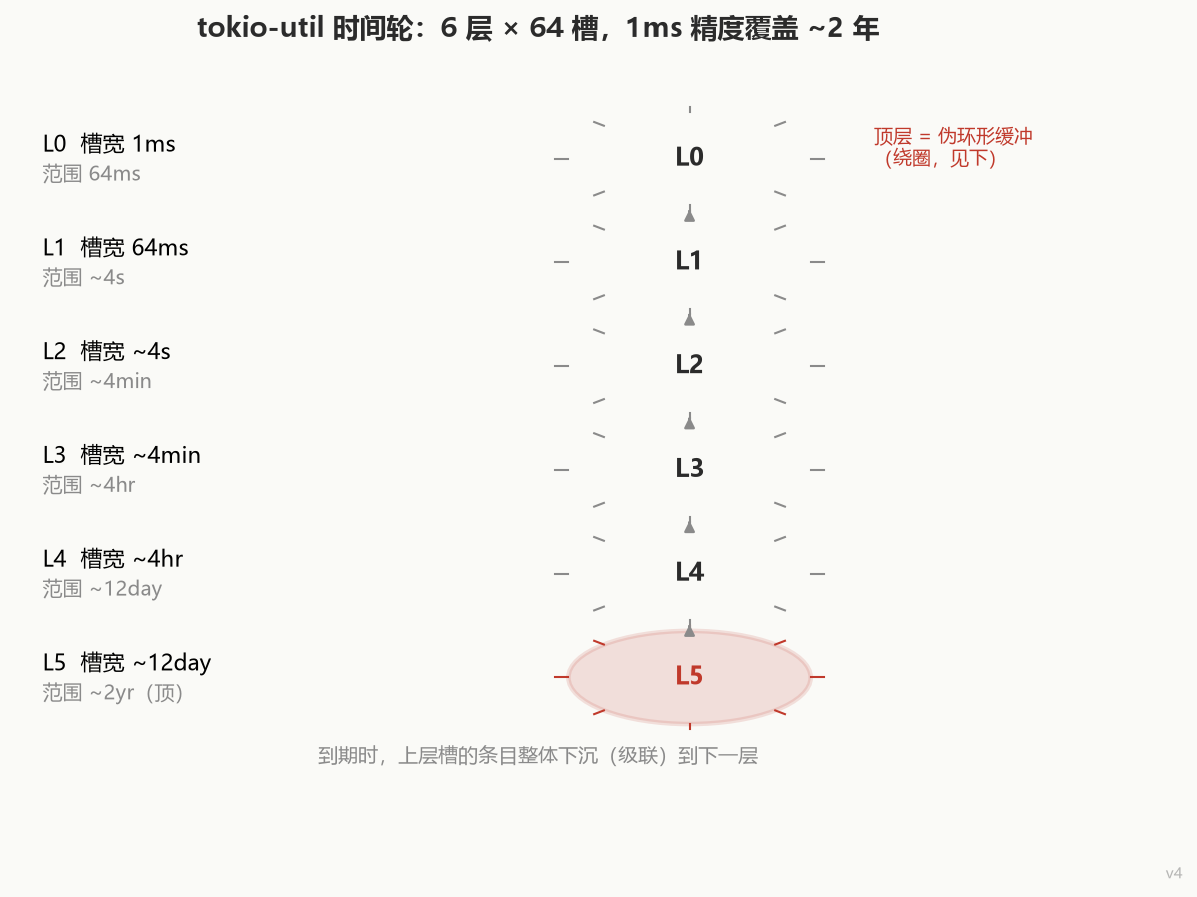
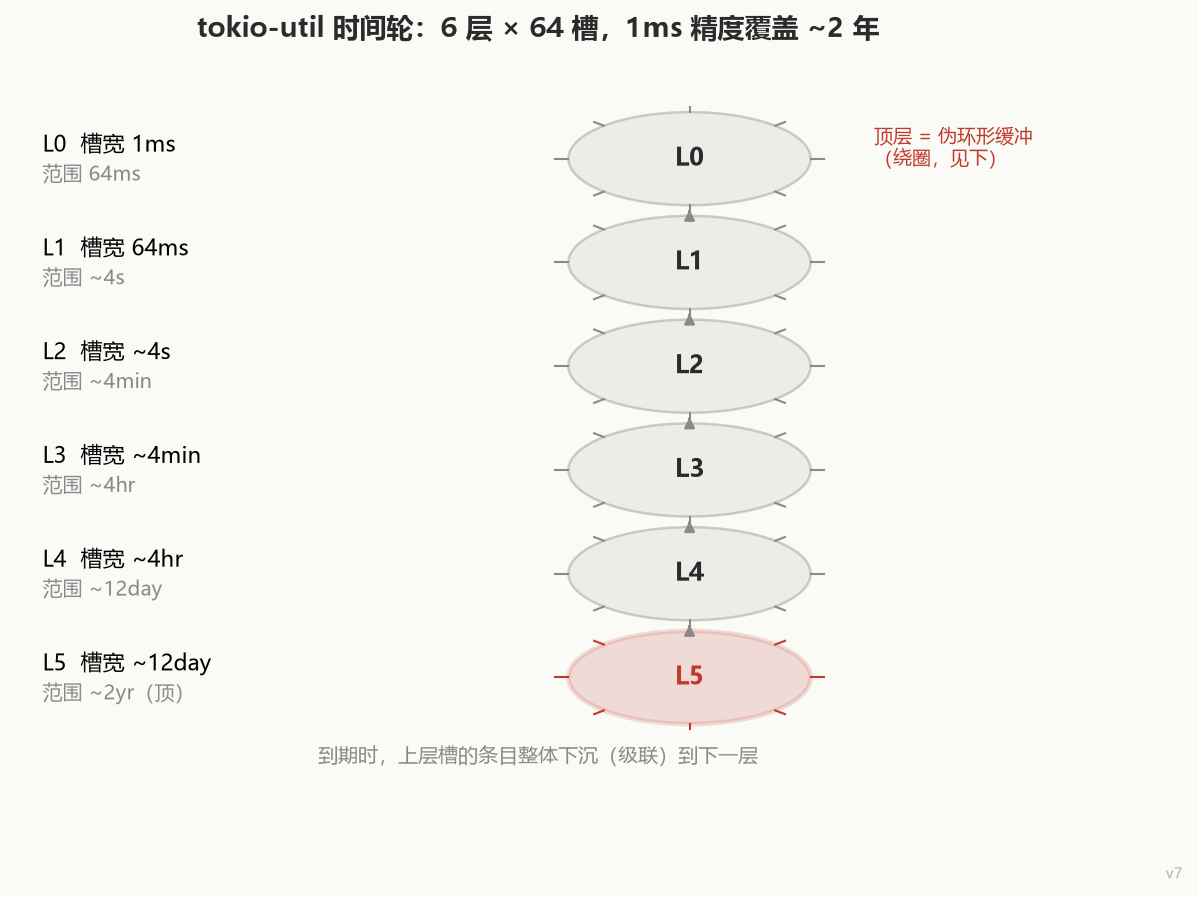
figures v7: fig1 补 L0-L4 半透明圆环; fig2/fig3 修复标签错位

diff --git a/代码/wheel_demo/make_figs.py b/代码/wheel_demo/make_figs.py
@@ -9,7 +9,7 @@ import numpy as np, os
 plt.rcParams["font.sans-serif"] = ["Microsoft YaHei", "SimHei"]
 plt.rcParams["axes.unicode_minus"] = False
 
-VER = "v4"  # 右下角版本标记，验证管线用
+VER = "v7"  # 右下角版本标记，验证管线用
 OUT = r"E:\项目\Tset\笔记\assets"
 os.makedirs(OUT, exist_ok=True)
 
@@ -46,9 +46,9 @@ y0, gap, r = 2.35, 0.98, 0.44
 for i, (name, sw, rng) in enumerate(levels):
     y = y0 - i * gap
     top = (name == "L5")
-    ax.add_patch(plt.Circle((0.75, y), r, fc=ACCENT if top else "none",
-                            alpha=0.14 if top else 0.0, ec=ACCENT if top else INK,
-                            lw=2.2 if top else 1.4, zorder=1))
+    ax.add_patch(plt.Circle((0.75, y), r, fc=ACCENT if top else "#d8d8d2",
+                            alpha=0.16 if top else 0.40, ec=ACCENT if top else MUTED,
+                            lw=2.2 if top else 1.2, zorder=1))
     for k in range(0, 64, 8):
         a = np.deg2rad(k * 360 / 64)
         ax.plot([0.75 + r * np.cos(a), 0.75 + (r + 0.05) * np.cos(a)],
@@ -76,7 +76,7 @@ SLOT1 = 90.0 - 30.0
 
 def draw_ring(ax, title, start_slot, result_text, result_color):
     ax.set_facecolor(PAPER)
-    ax.set_xlim(-1.6, 1.6); ax.set_ylim(-1.55, 1.75); ax.axis("off")
+    ax.set_xlim(-1.6, 1.6); ax.set_ylim(-1.55, 1.90); ax.axis("off")
     r = 1.0
     ax.add_patch(plt.Circle((0, 0), r, fill=False, ec=INK, lw=1.6))
     for k in range(64):
@@ -96,18 +96,14 @@ def draw_ring(ax, title, start_slot, result_text, result_color):
     p1 = np.array([r * np.cos(np.deg2rad(SLOT1)), r * np.sin(np.deg2rad(SLOT1))])
     ax.add_patch(plt.Circle(p0, 0.07, fc=ACCENT, ec="none"))
     ax.add_patch(plt.Circle(p1, 0.07, fc=ORANGE, ec="none"))
-    ax.annotate("FAR = 2^36+1 ms（~795 天）\n伪环条目：逻辑在一整圈之后",
-                xy=p0, xytext=(-1.55, 1.30), fontsize=9.2, color=ACCENT,
-                ha="left", va="center",
+    ax.annotate("FAR = 2^36+1 ms（~795 天）\n伪环条目 · now 也落在这槽（槽 0）",
+                xy=(p0[0] - 0.08, p0[1] - 0.05), xytext=(-1.55, 1.18), fontsize=9.2,
+                color=ACCENT, ha="left", va="center",
                 arrowprops=dict(arrowstyle="-", color=ACCENT, lw=0.9))
     ax.annotate("NEAR = 2^30+1000 ms（12 天 + 1 秒）",
-                xy=p1, xytext=(0.42, 1.22), fontsize=9.2, color=ORANGE,
-                ha="left", va="center",
+                xy=(p1[0] + 0.06, p1[1] + 0.03), xytext=(1.55, 1.82), fontsize=9.2,
+                color=ORANGE, ha="right", va="center",
                 arrowprops=dict(arrowstyle="-", color=ORANGE, lw=0.9))
-    ax.annotate("now（elapsed 落在槽 0）", xy=p0, xytext=(-0.62, -1.42),
-                fontsize=9.5, color=INK, ha="center",
-                arrowprops=dict(arrowstyle="-|>", color=INK, lw=1.1,
-                                connectionstyle="arc3,rad=0.25"))
 
     ps = p0 if start_slot == 0 else p1
     col = result_color
@@ -117,12 +113,13 @@ def draw_ring(ax, title, start_slot, result_text, result_color):
     arr = FancyArrowPatch(c + np.array([0.10, 0.02]), c + np.array([0.03, -0.08]),
                           arrowstyle="-|>", mutation_scale=15, color=col, lw=2.4)
     ax.add_patch(arr)
-    ax.text(c[0] + 0.28, c[1] + 0.14, "扫描从这开始\n→ 立刻命中", fontsize=9.0,
-            color=col, weight="bold", ha="left", va="center")
+    ax.text(0, 0.30, "扫描从这开始\n→ 立刻命中", fontsize=9.0, color=col,
+            weight="bold", ha="center", va="center")
 
     ax.set_title(title, fontsize=12.5, weight="bold", color=INK)
-    ax.text(0, -1.50, result_text, ha="center", fontsize=9.6, color=result_color)
-    ax.text(0, 1.68, "槽间距为示意（实际相邻槽 5.6°）", ha="right",
+    ax.text(0, -1.32, result_text, ha="center", va="top", fontsize=9.6,
+            color=result_color)
+    ax.text(0, 1.86, "槽间距为示意（实际相邻槽 5.6°）", ha="right",
             fontsize=8.2, color=MUTED)
 
 
@@ -135,9 +132,9 @@ draw_ring(axes[1], "fixed（含 +1）：扫描从槽 1 开始", 1,
 save(fig, "fig2_ring_scan.png")
 
 # ---------- 图 3：触发时间线 ----------
-fig, ax = plt.subplots(figsize=(10.5, 4.4), dpi=150)
+fig, ax = plt.subplots(figsize=(11.5, 4.6), dpi=150)
 fig.patch.set_facecolor(PAPER); ax.set_facecolor(PAPER)
-ax.set_xlim(-10, 880); ax.set_ylim(-1.45, 2.05)
+ax.set_xlim(-60, 880); ax.set_ylim(-1.55, 2.15)
 ax.axhline(0, color=INK, lw=1.4)
 for d, lab, dy in [(0, "0", -0.32), (12, "12天", 0.30),
                    (795, "795天（顶层一整圈）", -0.32), (807, "807天", 0.30)]:
@@ -145,25 +142,26 @@ for d, lab, dy in [(0, "0", -0.32), (12, "12天", 0.30),
     ax.text(d, dy, lab, ha="center", fontsize=9, color=MUTED)
 ax.set_yticks([]); ax.set_xticks([])
 
-ax.text(-8, 1.55, "fixed", fontsize=11, weight="bold", color=GOOD, ha="left")
+ax.text(-4, 1.55, "fixed", fontsize=11, weight="bold", color=GOOD, ha="right")
 ax.plot([0, 795], [1.55, 1.55], color=GOOD, lw=1.6, alpha=0.35)
 ax.plot([12], [1.55], "o", color=GOOD, ms=9)
-ax.text(30, 1.72, "NEAR 准点（12天+1秒）", ha="left", fontsize=9, color=GOOD)
+ax.text(45, 1.72, "NEAR 准点（12天+1秒）", ha="left", fontsize=9, color=GOOD)
 ax.plot([795], [1.55], "o", color=GOOD, ms=9)
 ax.text(795, 1.72, "FAR 准点（795天）", ha="center", fontsize=9, color=GOOD)
 
-ax.text(-8, 0.72, "buggy", fontsize=11, weight="bold", color=ACCENT, ha="left")
+ax.text(-4, 0.72, "buggy", fontsize=11, weight="bold", color=ACCENT, ha="right")
 ax.plot([0, 807], [0.72, 0.72], color=ACCENT, lw=1.6, alpha=0.35)
 ax.plot([795], [0.72], "o", color=ACCENT, ms=9)
-ax.text(795, 0.90, "FAR 准点", ha="center", fontsize=9, color=ACCENT)
+ax.text(795, 0.88, "FAR 准点", ha="left", fontsize=9, color=ACCENT)
 ax.plot([807], [0.72], "o", color=ACCENT, ms=9)
-ax.text(807, 0.90, "NEAR 才触发", ha="right", fontsize=9, color=ACCENT)
+ax.text(807, 0.50, "NEAR 才触发", ha="right", fontsize=9, color=ACCENT)
 
 ax.plot([12], [0.72], "x", color=MUTED, ms=10, mew=1.8)
-ax.text(12, 0.48, "本应在这", ha="center", fontsize=8.6, color=MUTED)
-ax.annotate("", xy=(806, 0.14), xytext=(12, 0.14),
+ax.plot([12, 12], [0.66, -0.16], color=MUTED, lw=0.9, ls=":")
+ax.text(30, -0.14, "本应在这（12天）", ha="left", fontsize=8.6, color=MUTED)
+ax.annotate("", xy=(806, 0.22), xytext=(12, 0.22),
             arrowprops=dict(arrowstyle="<->", color=ACCENT, lw=1.4))
-ax.text(409, 0.24, "NEAR 被推迟整整一圈（795 天）—— pgdog 事故里的“挂起”",
+ax.text(409, 0.30, "NEAR 被推迟整整一圈（795 天）—— pgdog 事故里的“挂起”",
         ha="center", fontsize=9.8, color=ACCENT)
 ax.set_title("同一组 timer，两种实现的触发时刻（release 实测）",
              fontsize=12.5, weight="bold", color=INK)
